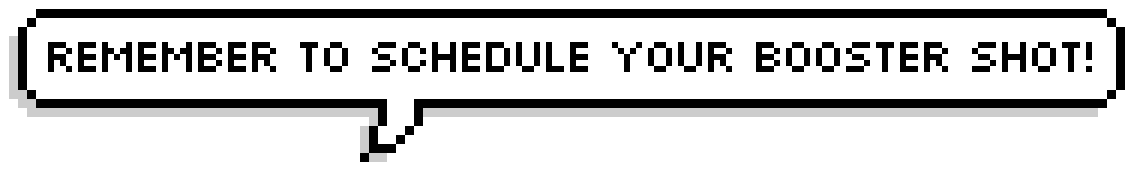
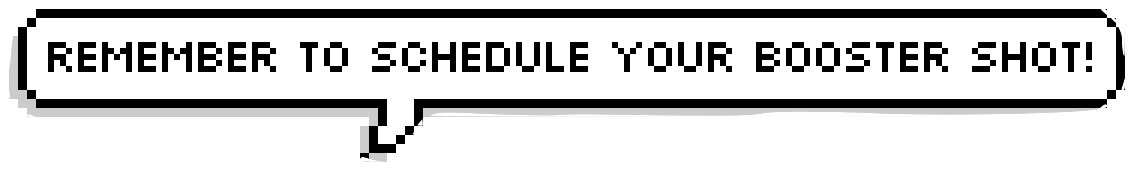
white quote

diff --git a/xmas-21/scene.js b/xmas-21/scene.js
@@ -71,8 +71,8 @@ scene.add(smMesh);
 var quote = new THREE.MeshBasicMaterial({
     map: loader.load("img/booster.png"),
 })
-//quote.transparent = true;
-//quote.side = THREE.DoubleSide;
+quote.side = THREE.DoubleSide;
+quote.transparent = true;
 
 var quoteGeo = new THREE.PlaneGeometry(250, 50, 0);
 var quoteMesh  = new THREE.Mesh(quoteGeo, quote);
@@ -101,13 +101,14 @@ scene.add(lottieMesh);
 var lottieQuoteMesh = new THREE.MeshBasicMaterial({
     map: loader.load("img/merry-xmas.png"),
 })
-lottieQuoteMesh.opacity = 1
+//lottieQuoteMesh.transparent = true;
+//lottieQuoteMesh.side = THREE.DoubleSide;
 
 var lottieQuoteGeo = new THREE.PlaneGeometry(200, 50, 0);
 var lottieQuoteMesh = new THREE.Mesh(lottieQuoteGeo, lottieQuoteMesh);
 lottieQuoteMesh.position.set(-150,0,50);
 
-scene.add(lottieQuoteMesh);
+// scene.add(lottieQuoteMesh);
 
 var snow = new THREE.Group();
 
